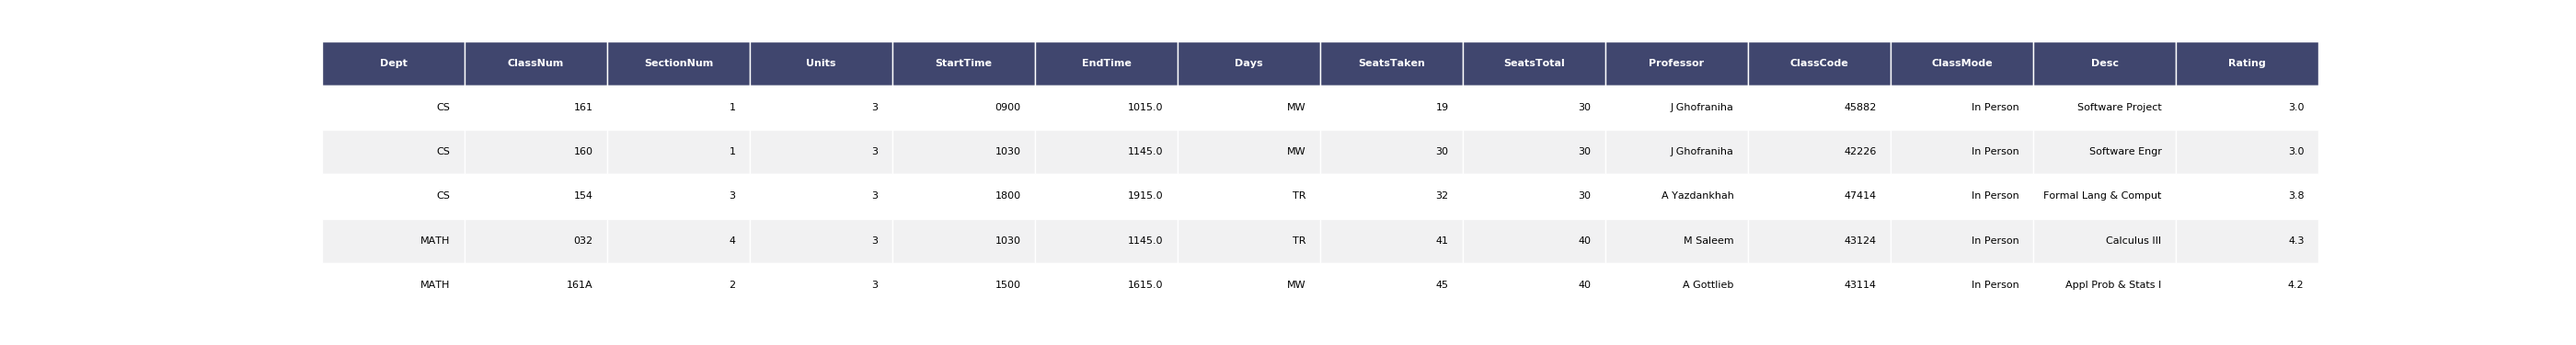
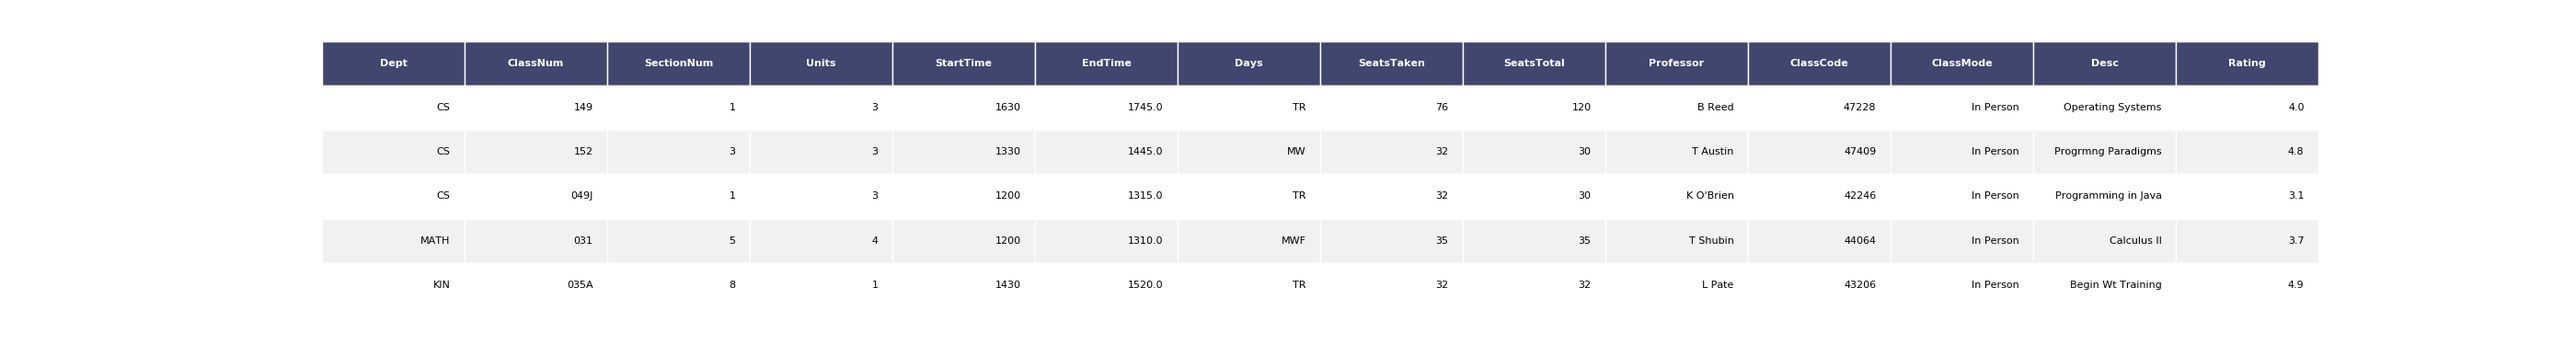
Added algorithm for prioritizing closeness of scheduled classes

diff --git a/python/coursegenerator.py b/python/coursegenerator.py
@@ -122,14 +122,16 @@ def getClassTargets(jsonPath):
               classDict['className3'], classDict['classNumber3'],
               classDict['className4'], classDict['classNumber4'],
               classDict['className5'], classDict['classNumber5'],
+              """
               classDict['className6'], classDict['classNumber6'],
               classDict['className7'], classDict['classNumber7'],
               classDict['className8'], classDict['classNumber8'],
               classDict['className9'], classDict['classNumber9'],
               classDict['className10'], classDict['classNumber10'],
+              """
              )
     #values = list(classDict.values())
-    values = [x for x in values if x != '']
+    values = [x.strip(' ') for x in values if x != '']
     it = iter(values)
     rtn = list(zip(it, it))
     return(rtn)
@@ -160,24 +162,62 @@ def isConflict(startTime1, endTime1, startTime2, endTime2):
             return True
     return False
 
-def rank(dfList, len, alg = None, path = 'solutions.json'):
+def getCloseness(scheduleDF):
+    dayVals = {'M': 0, 'T': 2400, 'W': 4800, 'R': 7200, 'F': 9600}
+    times = []
+    rtn = 0.0
+    classCount = 0 #tracks how many instances of in-person classes we have
+    for index, row in scheduleDF.iterrows():
+        if (dayVals.__contains__(row["Days"][0:1]) is True): #check if class is not online
+            times.append((int(row["StartTime"]) + dayVals.get(row["Days"][0:1]), int(row["EndTime"]) + dayVals.get(row["Days"][0:1])))
+            classCount += 1
+            if (dayVals.__contains__(row["Days"][1:2]) is True): #check if class has multiple days
+                times.append((int(row["StartTime"]) + dayVals.get(row["Days"][1:2]), int(row["EndTime"]) + dayVals.get(row["Days"][1:2])))
+                classCount += 1
+            #print(row["StartTime"], row["EndTime"], dayVals.get(row["Days"][1:2]))
+    times = sorted(times, key = lambda x: x[0])
+    maxindex = len(times) - 1
+    for x in range(len(times)):
+        if x != maxindex:
+            diff = times[maxindex - x][0] - times[maxindex - (x + 1)][1] #difference from start time and end time of 2 conseq classes
+            if diff < 1200: #ignoring different days, how close are the classes in the schedule generally?
+                rtn += diff
+            #print(diff)
+        #print(times[maxindex - x])
+    rtn = (rtn / classCount)
+    return rtn
+
+
+def rank(dfList, length, alg = None, path = 'solutions.json'):
     #dfList = list of schedules, len = length of returned 'top' schedules
+    if len(dfList) < length:
+        print("invalid arguments")
+        return
     if alg is None:
         pathComponents = re.split('.json', path, 1)
-        for index in range(len):
+        for index in range(length):
             (dfList[index]).to_json(pathComponents[0] + index.__str__() + ".json", orient = 'split')
 
-def rankPng(dfList, len, alg = None, path = 'solutions.png'):
+def rankPng(dfList, length, alg = None, path = 'solutions.png'):
+    if len(dfList) < length:
+        print("invalid arguments")
+        return
     # dfList = list of schedules, len = length of returned 'top' schedules
     if alg is None:
         pathComponents = re.split('.png', path, 1)
-        for index in range(len):
+        for index in range(length):
             render_mpl_table(dfList[index], header_columns=0, col_width=2.0)
             plt.savefig(pathComponents[0] + index.__str__() + ".png")
     elif alg is 1:
         dfList = sorted(dfList, key = lambda x: -x['Rating'].sum())
         pathComponents = re.split('.png', path, 1)
-        for index in range(len):
+        for index in range(length):
+            render_mpl_table(dfList[index], header_columns=0, col_width=2.0)
+            plt.savefig(pathComponents[0] + index.__str__() + ".png")
+    elif alg is 2:
+        dfList = sorted(dfList, key = lambda x: getCloseness(x))
+        pathComponents = re.split('.png', path, 1)
+        for index in range(length):
             render_mpl_table(dfList[index], header_columns=0, col_width=2.0)
             plt.savefig(pathComponents[0] + index.__str__() + ".png")
 
@@ -207,8 +247,8 @@ def render_mpl_table(data, col_width=3.0, row_height=0.625, font_size=14,
 
 def main():
     semester = course_structures.Semester(True)
-    targets = genSchedules(semester.df1, 'exampleArgs.json')
-    rankPng(targets, 2, alg = 1)
+    targets = genSchedules(semester.df1, 'classargs.json')
+    rankPng(targets, 3, alg = 1)
     #noConflicts(targets)
 
 if __name__ == "__main__":

diff --git a/python/app.py b/python/app.py
@@ -3,9 +3,10 @@ import coursegenerator
 import course_structures
 import pyrebase
 import json
-import firebase_admin
-from firebase_admin import credentials
-from firebase_admin import db
+from datetime import datetime
+#import firebase_admin
+#from firebase_admin import credentials
+#from firebase_admin import db
 
 config = {
   "apiKey": "AIzaSyDyJ08AU94tm8Qi9nownWCSN1tLw3Oj4Kk",
@@ -35,7 +36,7 @@ def on_snapshot(doc_snapshot, changes, read_time):
 def gensched():
     classargs = db1.child("Classes/classargs/").get()
     semArg = classargs.val()['type']
-    if semArg == 'spring':
+    if semArg == 'Spring':
         semester = course_structures.Semester(True)
     else:
         semester = course_structures.Semester(False)
@@ -53,3 +54,13 @@ def gensched():
     path_on_cloud = "Schedules/solutions2.png"
     path_local = "solutions2.png"
     storage.child(path_on_cloud).put(path_local)
+
+def stream_handler(msg):
+    gensched()
+    print("updated")
+
+def main():
+    my_stream = db1.child("Classes/classargs/").stream(stream_handler)
+
+if __name__ == "__main__":
+    main()
